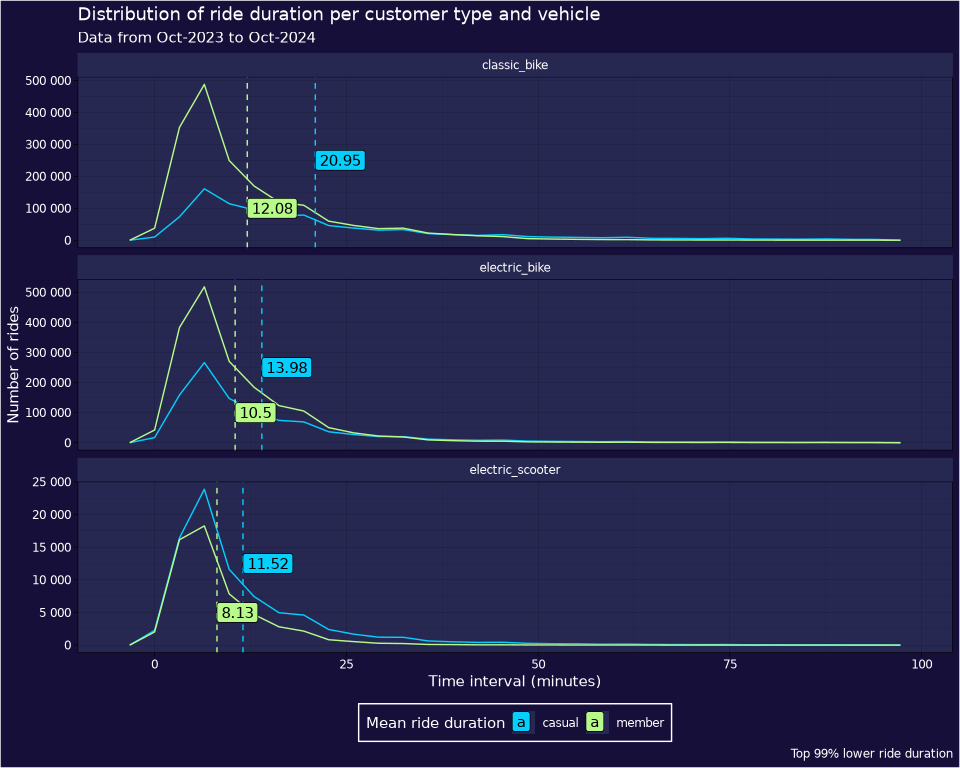
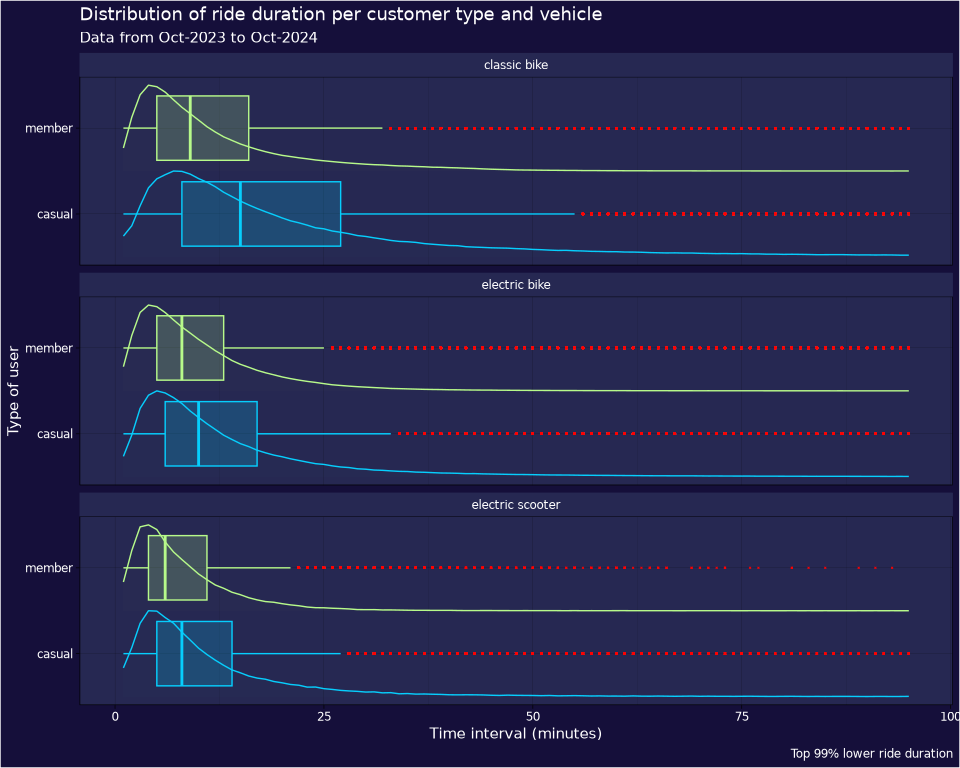
Modify some graphs to improve readability

diff --git a/README.md b/README.md
@@ -304,14 +304,14 @@ stations |>
   kable()
 ```
 
-| capacity | short_name | name | station_id | lat | lon | region_id | address |
-|---:|:---|:---|:---|---:|---:|:---|:---|
-| 19 | 13036 | Michigan Ave & Madison St | a3a795d7-a135-11e9-9cda-0a87ae2ba916 | 41.88213 | -87.62512 |  |  |
-| 16 | 24358 | Loomis St & 95th St | 2013067286975627866 | 41.72148 | -87.65774 |  |  |
-| 15 | 24178 | Meade Ave & Fullerton Ave | 1934288718318207280 | 41.92475 | -87.77827 |  |  |
-| 19 | 15529 | Mies van der Rohe Way & Chestnut St | a3a62566-a135-11e9-9cda-0a87ae2ba916 | 41.89859 | -87.62192 |  |  |
-| 15 | 20244 | Halsted St & 73rd St | a60781db-2bec-4a15-a4a2-363297aefcec | 41.76161 | -87.64416 |  |  |
-| 15 | 23190 | Karlov Ave & Armitage Ave | 1867616662773391950 | 41.91748 | -87.72895 |  |  |
+| lat | lon | name | short_name | station_id | capacity | region_id | address |
+|---:|---:|:---|:---|:---|---:|:---|:---|
+| 41.83202 | -87.67784 | Hoyne Ave & 34th St | CHI01898 | 1934289130932983934 | 15 |  |  |
+| 41.98096 | -87.76149 | Lynch Ave & Elston Ave | CHI02000 | 2021144286196005052 | 16 |  |  |
+| 41.76551 | -87.61692 | Calumet Ave & 71st St | CHI00293 | a3acea44-a135-11e9-9cda-0a87ae2ba916 | 11 |  |  |
+| 41.93242 | -87.65270 | Wilton Ave & Diversey Pkwy | CHI00226 | a3a3a282-a135-11e9-9cda-0a87ae2ba916 | 35 |  |  |
+| 41.96835 | -87.71183 | Christiana Ave & Lawrence Ave | CHI00302 | a3af8123-a135-11e9-9cda-0a87ae2ba916 | 15 |  |  |
+| 41.88021 | -87.75534 | Laramie Ave & Madison St | CHI01276 | a3b148bf-a135-11e9-9cda-0a87ae2ba916 | 11 |  |  |
 
 ``` r
 stations |>
@@ -322,16 +322,16 @@ stations |>
 
 | Value      | NA’s |
 |:-----------|-----:|
-| capacity   |    0 |
-| short_name |  879 |
-| name       |    0 |
-| ios        |    0 |
-| android    |    0 |
-| station_id |    0 |
 | lat        |    0 |
+| android    |    0 |
+| ios        |    0 |
 | lon        |    0 |
-| region_id  | 1818 |
-| address    |  953 |
+| name       |    0 |
+| short_name |  878 |
+| station_id |    0 |
+| capacity   |    0 |
+| region_id  | 1819 |
+| address    |  955 |
 
 ``` r
 stations <- stations |>
@@ -345,7 +345,7 @@ stations |>
 
 | Dimension |
 |----------:|
-|      1832 |
+|      1833 |
 |         1 |
 
 ``` r
@@ -357,7 +357,7 @@ stations |>
 
 | Dimension |
 |----------:|
-|      1828 |
+|      1830 |
 |         2 |
 
 ``` r
@@ -383,14 +383,12 @@ stations |>
 
 | station_id | short_name | name | lon | lat |
 |:---|:---|:---|---:|---:|
-| a3a3a282-a135-11e9-9cda-0a87ae2ba916 | TA1306000014 | Wilton Ave & Diversey Pkwy | -87.65270 | 41.93242 |
-| 2078379617704292706 | T13243 | Wabansia & Milwaukee | -87.68267 | 41.91375 |
-| d53ae727-5265-4b8e-a6ca-2a36dc0345c4 | chargingstx2 | Wilton Ave & Diversey Pkwy\* | -87.65270 | 41.93242 |
-| a3a6d884-a135-11e9-9cda-0a87ae2ba916 | 13243 | Milwaukee Ave & Wabansia Ave | -87.68267 | 41.91375 |
-| 1827484051430132402 |  | Public Rack - Forest Glen Station | -87.75552 | 41.97871 |
-| 1677249871073777806 |  | Public Rack - Laflin St & 51st St | -87.66208 | 41.80135 |
-| 1715823821144840768 |  | Public Rack - Laflin St &51st ST | -87.66208 | 41.80135 |
+| a3a3a282-a135-11e9-9cda-0a87ae2ba916 | CHI00226 | Wilton Ave & Diversey Pkwy | -87.65270 | 41.93242 |
+| d53ae727-5265-4b8e-a6ca-2a36dc0345c4 | CHI02052 | Wilton Ave & Diversey Pkwy\* | -87.65270 | 41.93242 |
 | 1827474404723843690 |  | Public Rack - Peterson Park | -87.75552 | 41.97871 |
+| 1677249871073777806 |  | Public Rack - Laflin St & 51st St | -87.66208 | 41.80135 |
+| 1827484051430132402 |  | Public Rack - Forest Glen Station | -87.75552 | 41.97871 |
+| 1715823821144840768 |  | Public Rack - Laflin St &51st ST | -87.66208 | 41.80135 |
 
 Stations with repeated coordinates
 
@@ -404,8 +402,8 @@ stations |>
 
 | station_id          | short_name | name                   |       lon |      lat |
 |:--------------------|:-----------|:-----------------------|----------:|---------:|
-| 1978857650118994914 | 24409      | Indiana Ave & 133rd St | -87.61719 | 41.65380 |
-| 1967727360320698512 | 24211      | Western Ave & Lake St  | -87.68668 | 41.88481 |
+| 1967727360320698512 | CHI01848   | Western Ave & Lake St  | -87.68668 | 41.88481 |
+| 1978857650118994914 | CHI01933   | Indiana Ave & 133rd St | -87.61719 | 41.65380 |
 | 1594046379513303720 |            | Western Ave & Lake St  | -87.68585 | 41.88461 |
 | 1448642188027369086 |            | Indiana Ave & 133rd St | -87.61705 | 41.65356 |
 
@@ -532,7 +530,7 @@ kable(summary(df))
 |  |  |  | Mean :2024-05-08 10:46:49.57 | Mean :2024-05-08 11:02:37.25 |  |  |  |  | Mean :-87.6 | Mean :41.9 |  | Mean :-87.6 | Mean :41.9 | Mean : 15.3 |  |
 |  |  |  | 3rd Qu.:2024-08-05 11:11:23.67 | 3rd Qu.:2024-08-05 11:30:43.33 |  |  |  |  | 3rd Qu.:-87.6 | 3rd Qu.:41.9 |  | 3rd Qu.:-87.6 | 3rd Qu.:41.9 | 3rd Qu.: 17.0 |  |
 |  |  |  | Max. :2024-09-30 23:54:05.54 | Max. :2024-09-30 23:59:52.55 |  |  |  |  | Max. :-87.5 | Max. :42.1 |  | Max. :-87.5 | Max. :42.1 | Max. :1509.0 |  |
-|  |  |  |  |  |  |  |  |  | NA’s :1024040 | NA’s :1024040 |  | NA’s :1033624 | NA’s :1033624 |  |  |
+|  |  |  |  |  |  |  |  |  | NA’s :1054625 | NA’s :1054625 |  | NA’s :1065110 | NA’s :1065110 |  |  |
 
 We have now finished our data cleaning process. Now that our data is
 ready, let’s continue with our analysis.
@@ -551,7 +549,10 @@ df |>
   ggplot() +
   aes(x = member_casual, y = avg_ride_duration, fill = member_casual) +
   geom_col(color = "#000000") +
-  facet_wrap(~rideable_type, labeller = as_labeller(function(string)  gsub("_", " ", string))) +
+  facet_wrap(
+    ~rideable_type,
+    labeller = as_labeller(function(string)  gsub("_", " ", string))
+  ) +
   global_theme() +
   scale_fill_manual(values = c("#06CEFD", "#B7FA8A")) +
   theme(legend.position = "none") +
@@ -572,36 +573,45 @@ let’s take a look at the distribution of usage
 df |>
   select(member_casual, rideable_type, ride_duration) |>
   slice_min(n = as.integer(dim(df)[1] * 0.99), order_by = ride_duration) |>
-  group_by(member_casual, rideable_type) |>
-  summarize(mean_duration = round(mean(ride_duration), 2)) |>
   ggplot() +
-  geom_freqpoly(
-    data = df |>
-      select(member_casual, rideable_type, ride_duration) |>
-      slice_min(n = as.integer(dim(df)[1] * 0.99), order_by = ride_duration),
-    aes(x = ride_duration, color = member_casual),
+  geom_ribbon(
+    stat = "bin",
+    binwidth = 1,
+    outline.type = "upper",
+    aes(
+      fill = after_scale(alpha(color, .01)),
+      x = ride_duration,
+      color = member_casual,
+      ymin = after_stat(group),
+      ymax = after_stat(group + ndensity)
+    ),
+    position = position_nudge(y = -0.5),
     show.legend = FALSE
   ) +
-  geom_vline(
-    aes(xintercept = mean_duration, color = member_casual),
-    linetype = 2,
+  geom_boxplot(
+    aes(
+      x = ride_duration,
+      y = member_casual,
+      color = member_casual,
+      fill = after_scale(alpha(color, 0.2))
+    ),
+    outlier.shape = 4,
+    outlier.color = "red",
+    outlier.size = .15,
     show.legend = FALSE
   ) +
-  geom_label(
-    aes(x = mean_duration, label = mean_duration, fill = member_casual),
-    y = c(250000, 250000, 12500, 100000, 100000, 5000),
-    hjust = 0
+  facet_wrap(
+    ~rideable_type,
+    dir = "v",
+    labeller = as_labeller(function(string) gsub("_", " ", string))
   ) +
-  scale_y_continuous(label = label_number()) +
-  facet_wrap(~rideable_type, dir = "v", scales = "free_y") +
   global_theme() +
   labs(
-    y = "Number of rides",
+    y = "Type of user",
     x = "Time interval (minutes)",
     title = "Distribution of ride duration per customer type and vehicle",
     subtitle = "Data from Oct-2023 to Oct-2024",
     caption = "Top 99% lower ride duration",
-    fill = "Mean ride duration",
   ) +
   scale_color_manual(values = c("#06CEFD", "#B7FA8A")) +
   scale_fill_manual(values = c("#06CEFD", "#B7FA8A")) +
@@ -614,6 +624,38 @@ df |>
 ```
 
 ![](README_files/figure-commonmark/Distribution%20of%20rides%20duration,%20per%20bike%20type-1.png)
+
+``` r
+df |>
+  slice_min(n = as.integer(dim(df)[1] * 0.99), order_by = ride_duration) |>
+  ggplot() +
+  aes(x = ride_duration, color = member_casual) +
+  geom_freqpoly(binwidth  = 1) +
+  facet_wrap(
+    ~rideable_type,
+    dir = "v",
+    labeller = as_labeller(function(string) gsub("_", " ", string)),
+    scales = "free"
+  ) +
+  global_theme() +
+  labs(
+    y = "Type of user",
+    x = "Time interval (minutes)",
+    title = "Distribution of ride duration per customer type and vehicle",
+    subtitle = "Data from Oct-2023 to Oct-2024",
+    caption = "Top 99% lower ride duration",
+  ) +
+  scale_color_manual(values = c("#06CEFD", "#B7FA8A")) +
+  scale_fill_manual(values = c("#06CEFD", "#B7FA8A")) +
+  theme(
+    legend.background = element_rect(fill = "#150F3A", color = "white"),
+    legend.text = element_text(color = "white"),
+    legend.title = element_text(color = "white"),
+    legend.position = "bottom",
+  )
+```
+
+![](README_files/figure-commonmark/Distribution%20of%20rides%20duration,%20per%20bike%20type-2.png)
 
 On average, casual users tend to use the service for longer periods of
 time, but they have less rides overall. Since casual users pay for each
